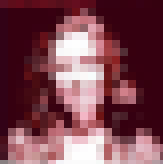
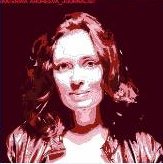
real picture; fixed the title

diff --git a/mural3x3.html b/mural3x3.html
@@ -2,7 +2,7 @@
 <html lang="en">
 <head>
     <meta charset="utf-8" />
-    <title>Open Letter to Ben Weyts</title>
+    <title>The Nine Women</title>
     <meta name="viewport" content="width=device-width, initial-scale=1" />
     <meta name="description" content="The Nine Women" />
 
@@ -35,12 +35,12 @@
 <!-- Start layout -->
 <r-c class="fixed-width-wide">
   <c1-1>
-    <img src="./images/9women/all.png" width="100%"/>
+    <img src="./images/9women/all.jpg" width="100%"/>
     <h2 style="text-align:center"> The Nine Women </h2>
     <p style="text-align:center">May 29, 2022</p>
 
     <p>
-This is a street art created by the Belgian activists from the Russian Solidarity movement aiming at bringing public attention to nowadays issues in Ukraine, Russia and Belarus. The object gathers the portraits of nine women, who are well-known activists, journalists and artists. As a consequence of their pro-democratic and liberal views, they became victims of the autocratic regimes. Ukrainians and Russians paid with their lives, Beloarussians found themselves imprisoned. How many others should suffer or die from this regime? In the memory of brave.
+    This is a street art created by the Belgian activists from the <a href="https://russiansolidarity.be">Russian Solidarity</a> movement aiming at bringing public attention to nowadays issues in Ukraine, Russia and Belarus. The mural gathers the portraits of nine women, who are well-known activists, journalists and artists. As a consequence of their pro-democratic and liberal views, they became victims of the autocratic regimes. Ukrainians and Russians paid with their lives, Beloarussians found themselves imprisoned. How many others should suffer or die from this regime? In the memory of brave.
     </p>
 
     <br/>
@@ -87,6 +87,10 @@ This is a street art created by the Belgian activists from the Russian Solidarit
     <b>Lyubov Panchenko [Любо́в Па́нченко]</b>
 (1938-2022) was a Ukrainian visual artist and fashion designer. She defended the Ukrainian language and culture. She painted pysanka Easter eggs, embroidered national costumes for choirs, and raised money to help political prisoners. Panchenko died, reportedly from a starvation caused by the Russian invasion, in Bucha on 30 April 2022, at the age of 84.
     </p>
+
+    <br/>
+    For more details about our activities,
+    follow our <a href="https://www.facebook.com/russiansolidarityinbelgium">facebook page</a>.
 
   </c1-1>
 </r-c>
